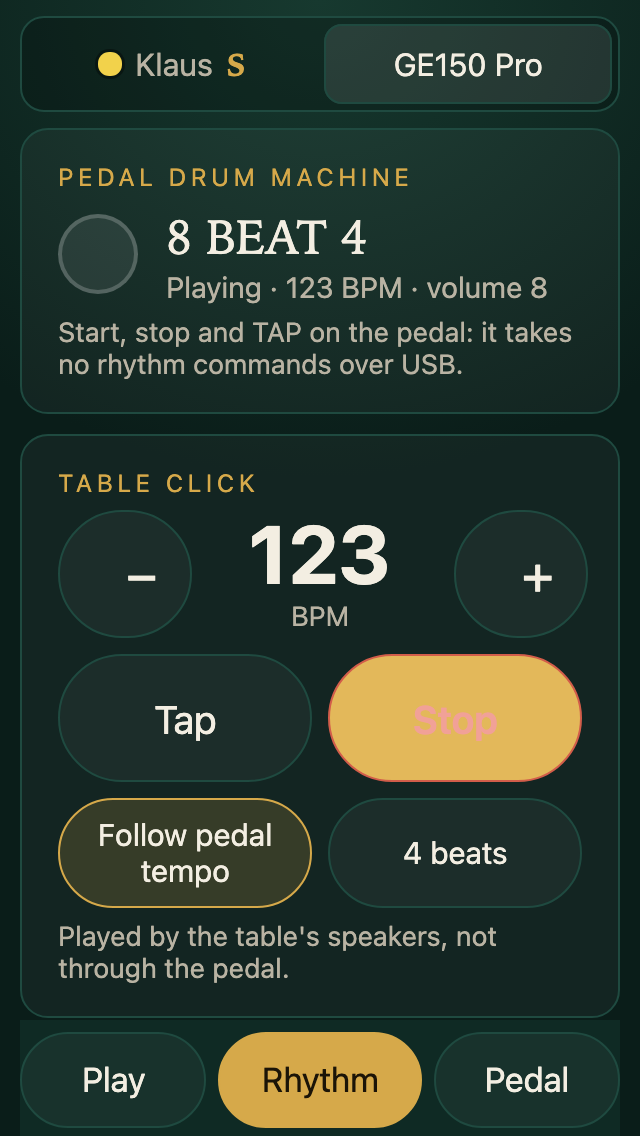
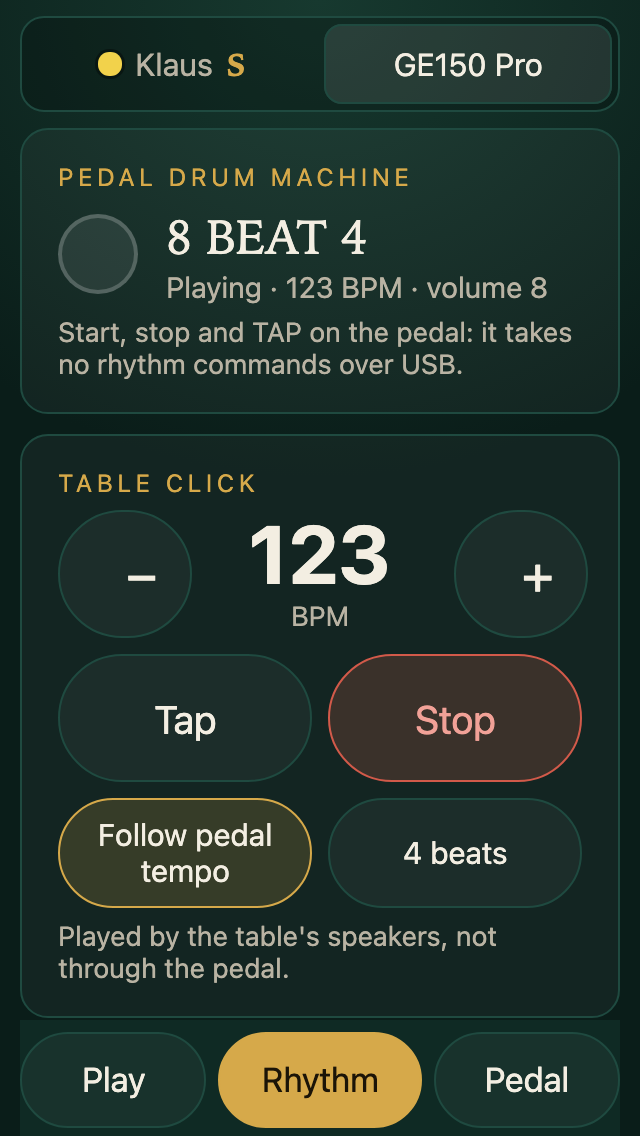
fix(deck): tabs at the bottom on every tab, a running click's Stop in the danger style
Claude-Session: https://claude.ai/code/session_01Ew5DouUYP7qcWshz9murCz

Changed region(s): [[0.5, 0.5546, 0.9062, 0.7086]]

diff --git a/games/ge150-pro/deck.css b/games/ge150-pro/deck.css
@@ -1,12 +1,15 @@
 /* GE150 Pro on the phone: 360 px wide, short screens, one hand. The game's tabs sit at the bottom, in thumb reach. */
-.gd { display: flex; flex-direction: column; height: 100%; min-height: 0; gap: 8px; }
-.gd-pages { flex: 1; min-height: 0; overflow-y: auto; }
+/* The game's area (#body, the platform's) grows to fill the phone while this game is shown, so the tabs sit at the
+   bottom on a short page too; on a long page they stick to the bottom of the screen. */
+#body:has(> .gd) { flex: 1; }
+.gd { flex: 1; display: flex; flex-direction: column; min-height: 0; gap: 8px; }
+.gd-pages { flex: 1; min-height: 0; }
 .gd-page { display: flex; flex-direction: column; gap: 10px; }
 .gd-page[hidden], .gd [hidden] { display: none !important; }
 .gd button { -webkit-user-select: none; user-select: none; -webkit-touch-callout: none; touch-action: manipulation; }
 .gd-tabs { position: sticky; bottom: 0; z-index: 2; display: grid; grid-template-columns: repeat(3, 1fr); gap: 6px;
   padding: 6px 0 4px; background: var(--felt, #0b1f1b); }
-.gd-tab { min-height: 48px; }
+.gd-tab { min-height: 48px; transition: none; } /* instant: the platform's fade left two tabs half-lit */
 .gd-tab:hover { border-color: var(--felt-line, rgba(255, 255, 255, 0.12)); }
 .gd-tab.on, .gd-tab.on:hover { background: var(--brass); color: #1b1407; border-color: var(--brass); }
 
@@ -38,7 +41,7 @@
 .gd-click-btns, .gd-click-opts { display: grid; grid-template-columns: 1fr 1fr; gap: 8px; margin-top: 8px; }
 .gd-click-btns button { min-height: 64px; font-size: 1.15em; }
 .gd-click-opts button { min-height: 48px; font-size: 0.9em; }
-.gd-start.on { background: rgba(210, 87, 74, 0.18); border-color: var(--ruby); color: #f1a197; }
+.gd-start.on, .gd-start.on:hover { background: rgba(210, 87, 74, 0.18); border-color: var(--ruby); color: #f1a197; }
 .gd-follow[aria-pressed="true"] { background: rgba(214, 169, 74, 0.18); border-color: var(--brass); }
 
 .gd-status-text { font-size: 1.05em; margin-top: 2px; }

diff --git a/games/ge150-pro/deck.js b/games/ge150-pro/deck.js
@@ -107,6 +107,7 @@ export function mount(root, ctx) {
     $(".gd-bpm b").textContent = String(tempo);
     $(".gd-start").textContent = c.on ? "Stop" : "Start";
     $(".gd-start").classList.toggle("on", c.on);
+    $(".gd-start").classList.toggle("primary", !c.on); // Start is the primary action; a running click's Stop is not
     $(".gd-follow").setAttribute("aria-pressed", String(c.follow));
     $(".gd-beats").textContent = `${c.beats} ${c.beats === 1 ? "beat" : "beats"}`;
     for (const s of [".gd-start", ".gd-tap", ".gd-minus", ".gd-plus", ".gd-follow", ".gd-beats"]) $(s).disabled = view.done;

diff --git a/scripts/e2e/ge150_pro.py b/scripts/e2e/ge150_pro.py
@@ -131,6 +131,8 @@ def main():
             assert "123 BPM" in deck.locator(".gd-pr-detail").inner_text(), deck.locator(".gd-pr-detail").inner_text()
             deck.locator(".gd-start").click()
             wait(lambda: deck.locator(".gd-start").inner_text() == "Stop", 5, "the click to start")
+            stop = deck.evaluate("() => { const b = document.querySelector('.gd-start'); return [b.classList.contains('primary'), getComputedStyle(b).color]; }")
+            assert stop[0] is False, f"a running click's Stop is not drawn as the primary action: {stop}"
             check(deck, "phone Rhythm")
             shot(deck, "phone-rhythm")
             deck.locator(".gd-start").click()
@@ -139,6 +141,8 @@ def main():
             deck.locator(".gd-tab[data-tab=setup]").click()
             tabs_on = deck.evaluate("() => [...document.querySelectorAll('.gd-tab.on')].map((b) => b.dataset.tab)")
             assert tabs_on == ["setup"], f"the Pedal tab is the one marked: {tabs_on}"
+            tabs = deck.locator(".gd-tabs").bounding_box()
+            assert tabs["y"] + tabs["height"] > 568 - 90, f"the tabs sit at the bottom on a short page: {tabs}"
             check(deck, "phone Pedal")
             shot(deck, "phone-pedal")
             deck.locator(".gd-finish").click()
